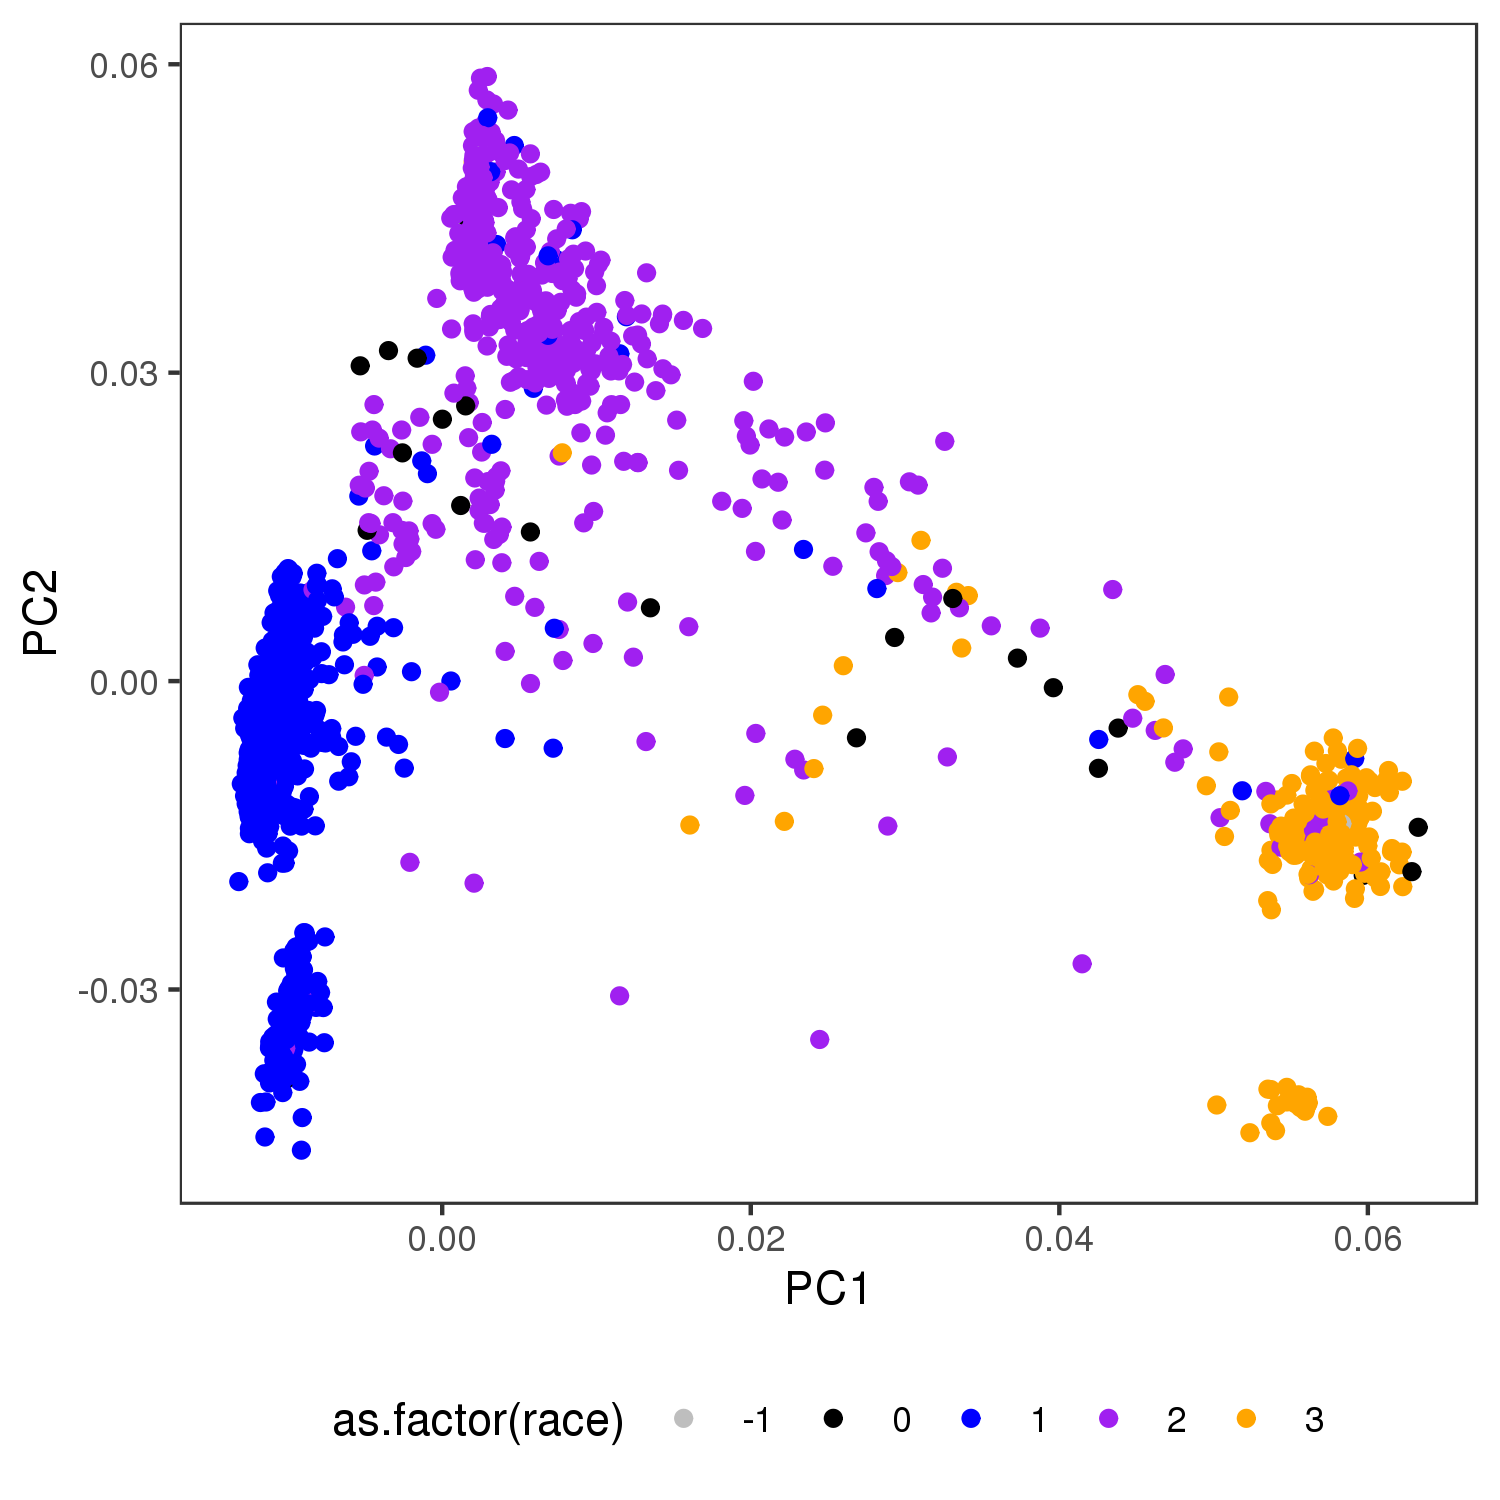
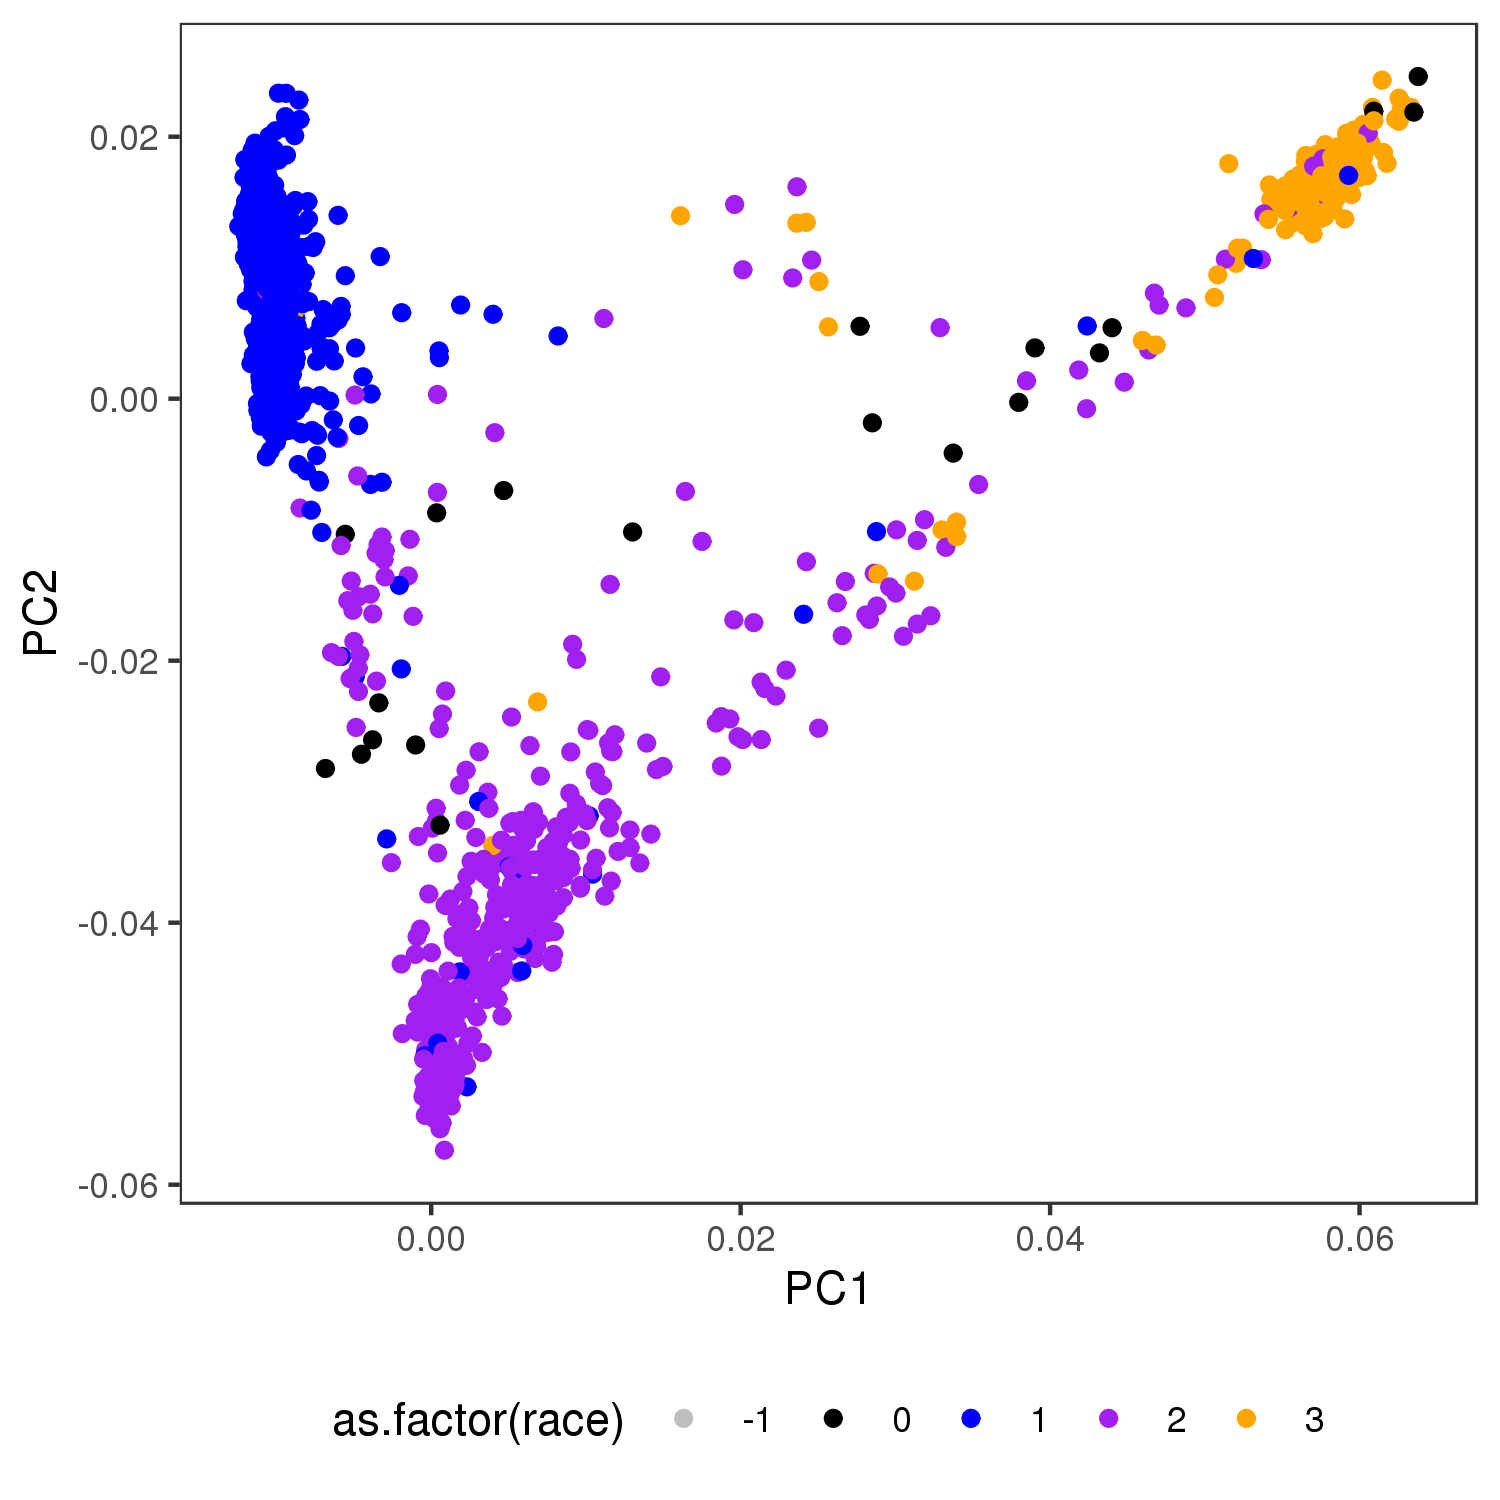
.

diff --git a/README.md b/README.md
@@ -588,7 +588,7 @@ parse3_QC_filtered_attract_preQC.prune.out .
 ### Step 13: PCA  
 Command:  
 ```
-./plink --bfile parse3_QC_filtered_attract_preQC --extract parse3_QC_filtered_attract_preQC.prune.in --pca 10 --out parse3_QC_filtered_attract_preQC
+./plink --bfile parse3_QC_filtered_attract_preQC --pca 10 --out parse3_QC_filtered_attract_preQC
 ```  
 <br />  
 Run Log:  
@@ -599,7 +599,6 @@ PLINK v1.90b6.16 64-bit (19 Feb 2020)          www.cog-genomics.org/plink/1.9/
 Logging to parse3_QC_filtered_attract_preQC.log.
 Options in effect:
   --bfile parse3_QC_filtered_attract_preQC
-  --extract parse3_QC_filtered_attract_preQC.prune.in
   --out parse3_QC_filtered_attract_preQC
   --pca 10
 
@@ -608,21 +607,20 @@ Options in effect:
 2308 people (790 males, 1514 females, 4 ambiguous) loaded from .fam.
 Ambiguous sex IDs written to parse3_QC_filtered_attract_preQC.nosex .
 2308 phenotype values loaded from .fam.
---extract: 1864359 variants remaining.
 Warning: Ignoring phenotypes of missing-sex samples.  If you dont want those
 phenotypes to be ignored, use the --allow-no-sex flag.
 Using up to 39 threads (change this with --threads).
 Before main variant filters, 2308 founders and 0 nonfounders present.
 Calculating allele frequencies... done.
-Warning: 601151 het. haploid genotypes present (see
+Warning: 647883 het. haploid genotypes present (see
 parse3_QC_filtered_attract_preQC.hh ); many commands treat these as missing.
 Warning: Nonmissing nonmale Y chromosome genotype(s) present; many commands
 treat these as missing.
-Total genotyping rate is 0.992577.
-1864359 variants and 2308 people pass filters and QC.
+Total genotyping rate is 0.997395.
+9820292 variants and 2308 people pass filters and QC.
 Among remaining phenotypes, 1356 are cases and 948 are controls.  (4 phenotypes
 are missing.)
-Excluding 10819 variants on non-autosomes from relationship matrix calc.
+Excluding 12145 variants on non-autosomes from relationship matrix calc.
 Relationship matrix calculation complete.
 --pca: Results saved to parse3_QC_filtered_attract_preQC.eigenval and
 parse3_QC_filtered_attract_preQC.eigenvec .
